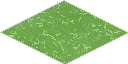
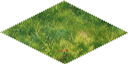
feat(art): 地面块纹理升级为 AI 工笔源图（写实与建筑风格统一）
- 4 张 AI 俯视源图（草/石板/水/土路，image1=gate_keep_raw 风格参考，
  工笔水彩质感）→ gen_ground_ai.py 流水线：裁水印边 → roll-blend
  无缝化 → 512×256 窗口 4× 下采样（无失真）→ 菱形蒙版 + 分格描边
- 11 张块贴图：草 ×4（含镜像/180° 旋转变体）、石板 ×2、土路 ×2（车辙
  方向交替）、水 ×2（涟漪镜像）、汉白玉（石板向暖白调色衍生）
- 渲染层变体分发升级：草 4 / 石·土·水各 2，保留 ±7% 亮度微色差
- 回归 75/75、build 通过；11 张贴图 HTTP 200 已生效

diff --git a/shanhai/src/render/world-renderer.ts b/shanhai/src/render/world-renderer.ts
@@ -436,11 +436,17 @@ export class WorldRenderer {
         const score = n * 10 + (groundPriority[t] ?? 0);
         if (score > bestScore) { bestScore = score; best = t; }
       }
-      // 地面块变体与微色差：确定性哈希（草 3 变体 / 石板 2 变体 + 亮度 ±7%），
-      // 避免整图同一张贴图平铺的重复感；缺变体图时回退基础图或纯色批。
+      // 地面块变体与微色差：确定性哈希（AI 工笔贴图：草 4 变体 / 石板·土路·水各 2 +
+      // 亮度 ±7%），避免整图同一张贴图平铺的重复感；缺变体图时回退基础图或纯色批。
       const gh = (Math.imul(bx, 2654435761) ^ Math.imul(by, 668265263)) >>> 0;
-      const variant = best === 'ground_grass' ? ['a', 'b', 'c'][gh % 3]
-        : best === 'ground_stone' ? ['a', 'b'][gh % 2] : undefined;
+      const GROUND_VARIANTS: Record<string, string[]> = {
+        ground_grass: ['a', 'b', 'c', 'd'],
+        ground_stone: ['a', 'b'],
+        ground_dirt: ['a', 'b'],
+        ground_water: ['a', 'b'],
+      };
+      const vopts = GROUND_VARIANTS[best];
+      const variant = vopts ? vopts[gh % vopts.length] : undefined;
       const lum = 236 + (gh % 20);
       const tint = (lum << 16) | (lum << 8) | lum;
       blocks.set(keyOf(bx, by), { type: best, gx: bx, gy: by, w: 2, h: 2, variant, tint });

diff --git a/shanhai/assets_src/tools/modv2/gen_ground_ai.py b/shanhai/assets_src/tools/modv2/gen_ground_ai.py
@@ -1,0 +1,110 @@
+#!/usr/bin/env python3
+"""AI 源贴图 → 等距地面块纹理（128×64 菱形，2×2 格）。
+
+流水线：裁水印边 → roll-blend 无缝化 → 取 512×256 窗口 4× 下采样 →
+菱形蒙版 + 1px 分格描边 → 保存 ground_*.png。
+变体取自同图不同窗口（部分水平镜像/180° 旋转），渲染层按格坐标哈希分发。
+
+源图（generated-images/）：
+- grass Seamless_tileable_top_down_gro_2026-11-14T03-28-46.png
+- stone Seamless_tileable_top_down_gro_2026-11-14T03-29-02.png
+- water Seamless_tileable_top_down_gro_2026-11-14T03-29-15.png
+- dirt  Seamless_tileable_top_down_gro_2026-11-14T03-29-31.png
+"""
+from __future__ import annotations
+
+from pathlib import Path
+
+import numpy as np
+from PIL import Image
+
+SRC = Path(__file__).resolve().parents[4] / 'generated-images'
+OUT = Path(__file__).resolve().parents[3] / 'public' / 'assets' / 'art' / 'iso'
+
+W, H = 128, 64
+WIN_W, WIN_H = 512, 256          # 4× 下采样窗口，无纵横比失真
+FILES = {
+    'grass': 'Seamless_tileable_top_down_gro_2026-11-14T03-28-46.png',
+    'stone': 'Seamless_tileable_top_down_gro_2026-11-14T03-29-02.png',
+    'water': 'Seamless_tileable_top_down_gro_2026-11-14T03-29-15.png',
+    'dirt': 'Seamless_tileable_top_down_gro_2026-11-14T03-29-31.png',
+}
+RIMS = {
+    'grass': (78, 128, 52, 90),
+    'stone': (96, 89, 76, 110),
+    'dirt': (122, 95, 60, 100),
+    'water': (40, 105, 155, 120),
+    'marble': (166, 158, 138, 110),
+}
+
+# 变体 → (类型, 窗口 x, y, 水平镜像, 180° 旋转)
+VARIANTS = {
+    'ground_grass_a.png': ('grass', 30, 30, False, False),
+    'ground_grass_b.png': ('grass', 400, 60, True, False),
+    'ground_grass_c.png': ('grass', 60, 420, False, False),
+    'ground_grass_d.png': ('grass', 400, 620, True, True),
+    'ground_stone_a.png': ('stone', 60, 200, False, False),
+    'ground_stone_b.png': ('stone', 300, 500, True, True),
+    'ground_dirt_a.png': ('dirt', 100, 150, False, False),
+    'ground_dirt_b.png': ('dirt', 420, 380, False, True),
+    'ground_water_a.png': ('water', 200, 100, False, False),
+    'ground_water_b.png': ('water', 440, 620, True, False),
+    'ground_marble.png': ('stone', 430, 60, False, False),   # 调色衍生
+}
+
+
+def load_seamless(kind: str) -> np.ndarray:
+    """裁水印边 + roll-blend 无缝化，返回 RGB float 数组。"""
+    im = Image.open(SRC / FILES[kind]).convert('RGB')
+    a = np.asarray(im).astype(np.float32)
+    a = a[:-70, :-70]                      # 去右下水印带
+    h, w = a.shape[:2]
+    s = np.roll(np.roll(a, h // 2, axis=0), w // 2, axis=1)
+    yy, xx = np.mgrid[0:h, 0:w]
+    dx = np.abs((xx - w / 2) / (w / 2))
+    dy = np.abs((yy - h / 2) / (h / 2))
+    ramp = lambda t: np.clip((t - 0.5) / 0.5, 0, 1)
+    m = 1.0 - np.maximum(ramp(dx), ramp(dy))
+    m = (m * m * (3 - 2 * m))[..., None]   # smoothstep，中心用原图、边缘用滚位图
+    return s * (1 - m) + a * m
+
+
+def diamond_mask() -> Image.Image:
+    m = Image.new('L', (W, H), 0)
+    from PIL import ImageDraw
+    ImageDraw.Draw(m).polygon([(64, 0), (128, 32), (64, 64), (0, 32)], fill=255)
+    return m
+
+
+def bake(seam: dict[str, np.ndarray], kind: str, x: int, y: int, flip: bool, rot180: bool,
+         marble: bool = False) -> Image.Image:
+    win = seam[kind][y:y + WIN_H, x:x + WIN_W]
+    assert win.shape[0] == WIN_H and win.shape[1] == WIN_W, win.shape
+    im = Image.fromarray(np.clip(win, 0, 255).astype(np.uint8), 'RGB')
+    if rot180:
+        im = im.rotate(180)
+    if flip:
+        im = im.transpose(Image.FLIP_LEFT_RIGHT)
+    px = np.asarray(im.resize((W, H), Image.LANCZOS)).astype(np.float32)
+    if marble:  # 汉白玉：石板向暖白调色（保留淡缝）
+        base = np.array([218.0, 212.0, 196.0])
+        px = px * 0.45 + base * 0.55
+    out = Image.new('RGBA', (W, H), (0, 0, 0, 0))
+    rgb = Image.fromarray(np.clip(px, 0, 255).astype(np.uint8), 'RGB').convert('RGBA')
+    rgb.putalpha(diamond_mask())
+    out.alpha_composite(rgb)
+    from PIL import ImageDraw
+    ImageDraw.Draw(out).line([(64, 0), (128, 32), (64, 64), (0, 32), (64, 0)], fill=RIMS[kind], width=1)
+    return out
+
+
+def main() -> None:
+    seam = {k: load_seamless(k) for k in FILES}
+    for name, (kind, x, y, flip, rot) in VARIANTS.items():
+        im = bake(seam, kind, x, y, flip, rot, marble=(kind == 'stone' and name == 'ground_marble.png'))
+        im.save(OUT / name)
+        print(name, im.size)
+
+
+if __name__ == '__main__':
+    main()
